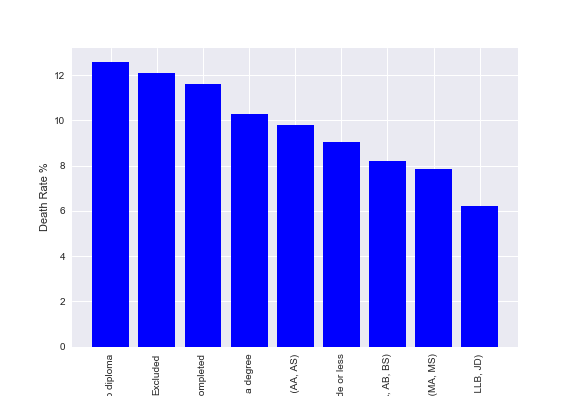
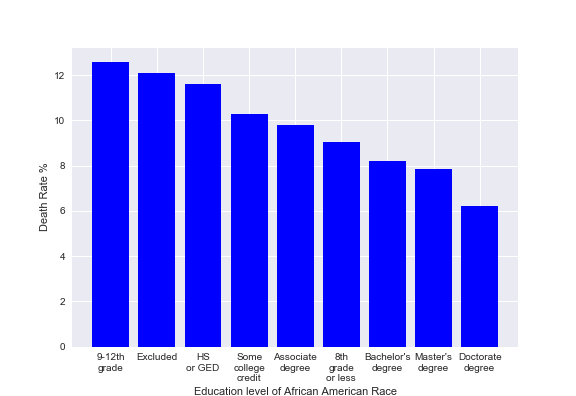
aar updated

Changed region(s): [[0.3125, 0.8788, 0.875, 1.0], [0.1562, 0.8788, 0.3125, 1.0], [0.7188, 0.9697, 0.7812, 1.0]]

diff --git a/IMR_by_education.py b/IMR_by_education.py
@@ -349,27 +349,27 @@ fig
 
 # ### AAR Education vs Death Rate
 
-# In[31]:
+# In[53]:
 
 
 aareducation = 'datafiles/Death_Rate_by_AAR_by_Education.csv'
 aareducation_df = pd.read_csv(aareducation, encoding="ISO-8859-1")
 
 
-# In[32]:
+# In[54]:
 
 
 aareducation_sorted =aareducation_df.sort_values(["Death Rate"],ascending=False)
 
 
-# In[33]:
+# In[55]:
 
 
 exclude_unknown_aar = aareducation_sorted.loc[aareducation_sorted['Education']!= "Unknown/Not on certificate"]
 exclude_unknown_aar
 
 
-# In[34]:
+# In[62]:
 
 
 x_axis = exclude_unknown_aar['Education']
@@ -378,13 +378,13 @@ plt.tight_layout()
 plt.ylabel("Death Rate %")
 plt.xlabel("Education level of African American Race")
 plt.bar(x_axis, y_axis, color="b", align="center")
-plt.xticks(exclude_unknown_aar['Education'], rotation="vertical")
+plt.xticks(range(len(x_axis)), ["9-12th\ngrade", "Excluded", "HS\nor GED", "Some\ncollege\ncredit" , "Associate\ndegree", "8th\ngrade\nor less", "Bachelor's\ndegree", "Master's\ndegree", "Doctorate\ndegree"] )
 
 plt.savefig("Images/Education_of_AAR.png")
 plt.show()
 
 
-# In[35]:
+# In[63]:
 
 
 censusaareducation = 'datafiles/AAR_Education_2013_2017.csv'

diff --git a/README.md b/README.md
@@ -76,7 +76,7 @@ Average poverty by county for 2007-2016. Markers represent 15 highest IMR states
 
 ### 4) How does the education level of the mother relate to IMR?
 
-![Education level](Images/Education_lever_line.png)
+![Education level](Images/Education_lever_line.png)![AAR Education level](Images/Education_of_AAR.png)
 
 ### 6) Does the age of the mother play a role in IMR?
 =======
